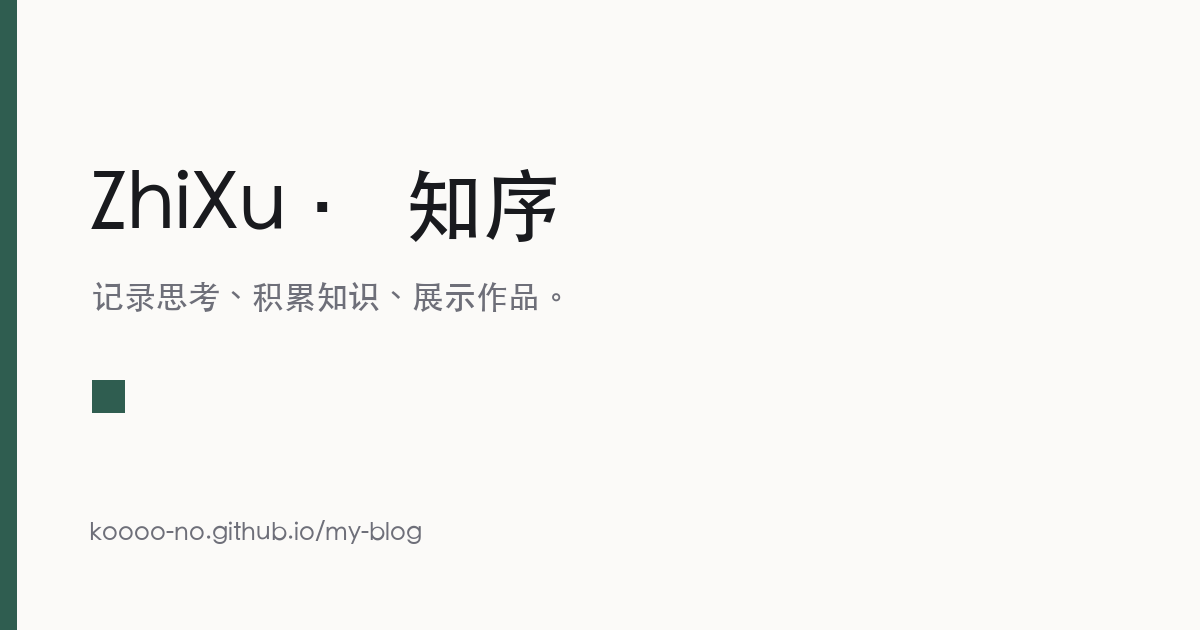
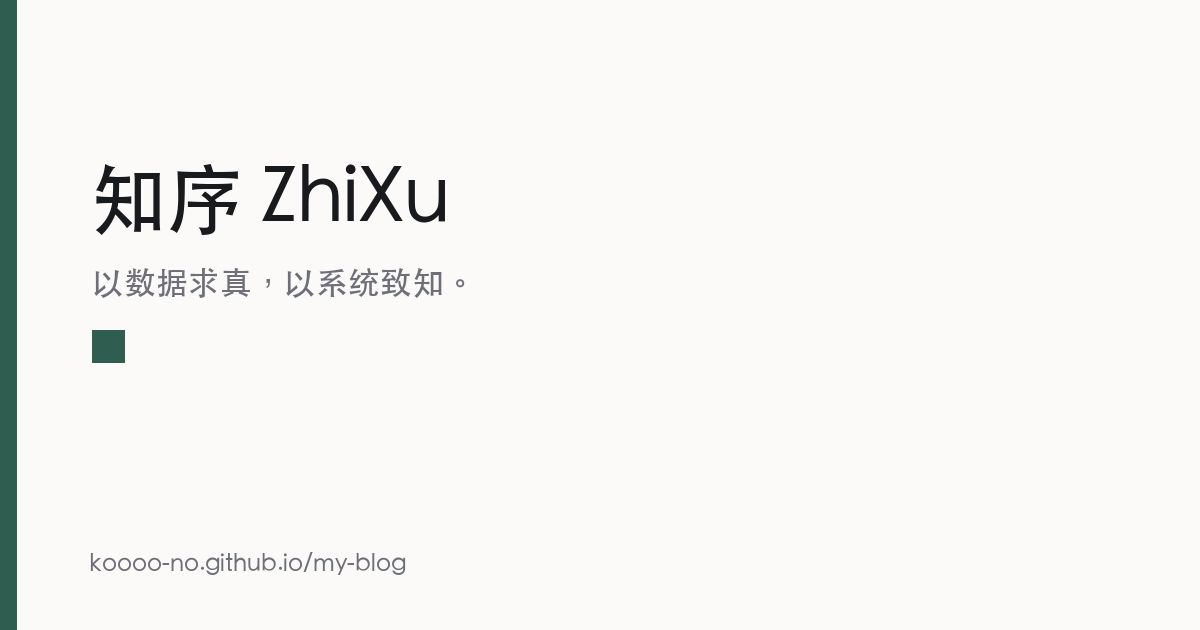
补全站点文案：标语、简介、关于页
- consts.ts 拆出 tagline / intro / motto 三个字段，
  原来所有地方都挤在 description 里
- 首页大标题改为标语「以数据求真，以系统致知。」
- 关于页写入完整介绍：记录什么、怎么做、目标
- 分享图工具支持读取标语并自动折行
- 页脚改为站名 + 技术说明（避免和首页顶部标语重复）

diff --git a/src/consts.ts b/src/consts.ts
@@ -3,14 +3,31 @@
 // ============================================================
 
 export const SITE = {
-  /** 网站标题，显示在浏览器标签和页面顶部 */
-  title: 'ZhiXu · 知序',
-  /** 一句话简介，用于首页和搜索引擎 */
-  description: '记录思考、积累知识、展示作品。',
+  /** 网站标题，显示在浏览器标签和页头 */
+  title: '知序 ZhiXu',
+
+  /** 一句话标语，显示在首页大标题 */
+  tagline: '以数据求真，以系统致知。',
+
+  /** 站点介绍，显示在首页副标题 */
+  intro: '知序是一个专注于 AI 量化研究、技术实践与个人知识管理的独立站。',
+
+  /**
+   * 给搜索引擎和分享卡片看的简介。
+   * 比 tagline 长一些，因为搜索结果里显示的字数更多效果好。
+   */
+  description:
+    '知序是一个专注于 AI 量化研究、技术实践与个人知识管理的独立站。以数据求真，以系统致知。',
+
+  /** 三个关键词，显示在首页顶部小字 */
+  motto: '独立研究 · 持续实验 · 长期积累',
+
   /** 你的名字 / 昵称，显示在页脚版权处 */
   author: 'koooo-no',
+
   /** 页脚版权显示的年份起算 */
   since: 2026,
+
   /** 语言，中文用 zh-CN */
   lang: 'zh-CN',
 };

diff --git a/tools/make-og-image.py b/tools/make-og-image.py
@@ -2,7 +2,9 @@
 """
 生成社交分享卡片图（public/og-default.png）
 
-站名、简介直接从 src/consts.ts 里读，改完站名跑一次这个脚本就行。
+站名和标语直接从 src/consts.ts 里读，改完站名跑一次这个脚本就行 ——
+图上的文字是烧进像素里的，不重新生成的话，别人分享你的链接时
+卡片上还是旧站名。
 
 用法：
     python3 tools/make-og-image.py
@@ -21,6 +23,7 @@ CONSTS = ROOT / "src" / "consts.ts"
 OUT = ROOT / "public" / "og-default.png"
 
 W, H = 1200, 630
+MARGIN = 90
 BG = (251, 250, 248)
 ACCENT = (47, 93, 80)
 TEXT = (25, 26, 30)
@@ -28,14 +31,14 @@ MUTED = (110, 111, 121)
 
 
 def read_site():
-    """从 consts.ts 里抠出 title / description，避免两处不一致"""
+    """从 consts.ts 抠出 title / tagline / description，避免两处不一致"""
     src = CONSTS.read_text(encoding="utf-8")
 
     def grab(key):
-        m = re.search(rf"{key}:\s*'([^']*)'", src)
+        m = re.search(rf"{key}:\s*\n?\s*'([^']*)'", src)
         return m.group(1) if m else ""
 
-    return grab("title"), grab("description")
+    return grab("title"), grab("tagline"), grab("description")
 
 
 def load_font(size):
@@ -56,13 +59,30 @@ def load_font(size):
     return ImageFont.load_default()
 
 
+def wrap(draw, text, font, max_width):
+    """按字符宽度折行（中文逐字折行正好合适）"""
+    lines, cur = [], ""
+    for ch in text:
+        trial = cur + ch
+        if not cur or draw.textlength(trial, font=font) <= max_width:
+            cur = trial
+        else:
+            lines.append(cur)
+            cur = ch
+    if cur:
+        lines.append(cur)
+    return lines
+
+
 def main():
     url = sys.argv[1] if len(sys.argv) > 1 else "koooo-no.github.io/my-blog"
-    title, description = read_site()
+    title, tagline, description = read_site()
 
     if not title:
         print("没能从 src/consts.ts 读出站名", file=sys.stderr)
         return 1
+
+    subtitle = tagline or description or ""
 
     img = Image.new("RGB", (W, H), BG)
     d = ImageDraw.Draw(img)
@@ -70,21 +90,34 @@ def main():
     # 左侧主色竖条
     d.rectangle([0, 0, 16, H], fill=ACCENT)
 
-    f_title = load_font(78)
+    f_title = load_font(76)
     f_sub = load_font(32)
-    f_small = load_font(24)
+    f_small = load_font(23)
 
-    d.text((90, 165), title, font=f_title, fill=TEXT)
-    d.text((92, 280), description, font=f_sub, fill=MUTED)
+    max_w = W - MARGIN * 2
 
-    d.rectangle([92, 380, 124, 412], fill=ACCENT)
+    # 站名
+    y = 160
+    for line in wrap(d, title, f_title, max_w):
+        d.text((MARGIN, y), line, font=f_title, fill=TEXT)
+        y += 92
 
-    d.text((90, 520), url, font=f_small, fill=MUTED)
+    # 标语
+    y += 14
+    for line in wrap(d, subtitle, f_sub, max_w):
+        d.text((MARGIN + 2, y), line, font=f_sub, fill=MUTED)
+        y += 46
+
+    # 小色块装饰
+    d.rectangle([MARGIN + 2, y + 18, MARGIN + 34, y + 50], fill=ACCENT)
+
+    # 网址
+    d.text((MARGIN, H - 78), url, font=f_small, fill=MUTED)
 
     img.save(OUT, "PNG", optimize=True)
     print(f"已生成 {OUT.relative_to(ROOT)}")
-    print(f"  标题: {title}")
-    print(f"  简介: {description}")
+    print(f"  站名: {title}")
+    print(f"  标语: {subtitle}")
     print(f"  网址: {url}")
     return 0
 

diff --git a/src/content/pages/about.md b/src/content/pages/about.md
@@ -1,35 +1,49 @@
 ---
-title: 关于我
-description: 简单介绍一下自己。
+title: 关于知序
+description: 知序是一个专注于 AI 量化研究、技术实践与个人知识管理的独立站。
 updatedDate: 2026-10-14
 ---
 
-你好，我是 **koooo-no**。
+知序是一个专注于 **AI 量化研究、技术实践与个人知识管理** 的独立站。
 
-> 这一页还是模板，把你的介绍写在这里就好。
+## 这里记录什么
 
-## 我在做什么
+- **A 股市场分析** —— 结构、风格、资金与情绪
+- **量化因子研究** —— 因子的构造、检验与失效
+- **策略回测与风险控制** —— 从回测到组合，再到回撤管理
+- **人工智能与大模型** —— 在研究和工程里的实际用法
+- **自动化工具与个人项目** —— 把重复的事交给机器
 
-目前在做……（写你的工作或正在投入的事情）
+## 我们怎么做
 
-## 我关注什么
+我们重视**数据、验证与复盘**。
 
-- 量化研究
-- 兴趣方向二
-- 兴趣方向三
+不追逐未经证实的结论，不把回测成绩当作未来收益的保证，而是尽可能让每一项研究都有依据、
+每一次实验都有记录、每一份知识都能持续积累。
 
-## 这个网站
+## 目标
 
-站点叫 **ZhiXu · 知序**，用来放文章、笔记和作品。
+研究市场，探索技术，建立自己的认知体系。
 
-想法很简单：**写下来才算真的想明白**。
+---
 
-技术上是一个用 Astro 搭建的静态网站，内容都是 Markdown 文件，托管在 GitHub Pages 上，
-没有后端、没有数据库，构建出来就是一堆 HTML。
+**独立研究 · 持续实验 · 长期积累**
 
-## 联系我
+## 关于这个网站
+
+用 [Astro](https://astro.build) 搭建的静态网站：没有后端、没有数据库、不需要服务器维护，
+内容都是 Markdown 文件。构建出来就是一堆 HTML，托管在 GitHub Pages 上。
+
+- 文章、笔记、作品分别放在 `posts` / `notes` / `projects` 三个板块
+- 量化看板的数据由脚本自动生成，每天更新一次
+- 想了解技术细节，看[仓库](https://github.com/koooo-no/my-blog)里的 README
+
+## 联系
 
 - GitHub：[@koooo-no](https://github.com/koooo-no)
 - RSS：[订阅更新](/rss.xml)
 
-有什么想聊的，欢迎到 GitHub 找我。
+---
+
+> **免责声明**：本站内容为个人研究记录，不构成任何投资建议。回测结果均为历史模拟数据，
+> 不代表未来收益。据此操作，风险自负。
